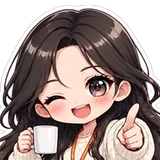
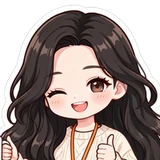
은빈을 동료들과 같은 몸 비율로
Claude-Session: https://claude.ai/code/session_013o6MwTRjv9wdDZ1RWn6mmU

diff --git a/sw.js b/sw.js
@@ -1,5 +1,5 @@
 // 자동 생성 파일: tools/build.py가 만든다. 직접 고치지 말고 tools/sw.template.js를 고칠 것
-const CACHE='humzzwi-2026.10.09-395606';
+const CACHE='humzzwi-2026.10.09-e61bfe';
 const ASSETS=["./", "index.html", "manifest.json", "icon-192.png", "icon-512.png", "apple-touch-icon.png", "fonts/GowunDodum-Regular.woff2", "fonts/Jua-Regular.woff2", "assets/a_bear.webp", "assets/a_daram.webp", "assets/a_daram_f.webp", "assets/a_eunbin.webp", "assets/a_fox.webp", "assets/a_hanmin.webp", "assets/a_hyunsu.webp", "assets/a_hz_walk.webp", "assets/a_hz_walk_b.webp", "assets/a_jaemin.webp", "assets/a_jiyoung.webp", "assets/a_lab.webp", "assets/a_sangho.webp", "assets/a_seohwi.webp", "assets/a_sumin.webp", "assets/badge.webp", "assets/c_ai.webp", "assets/c_ai_b.webp", "assets/c_blind.webp", "assets/c_blind_b.webp", "assets/c_blog.webp", "assets/c_blog_b.webp", "assets/c_cafe.webp", "assets/c_cafe_b.webp", "assets/c_coffee.webp", "assets/c_coffee_b.webp", "assets/c_content.webp", "assets/c_content_b.webp", "assets/c_cs.webp", "assets/c_cs_b.webp", "assets/c_date.webp", "assets/c_date_b.webp", "assets/c_daytrip.webp", "assets/c_daytrip_b.webp", "assets/c_english.webp", "assets/c_english_b.webp", "assets/c_erp.webp", "assets/c_erp_b.webp", "assets/c_ev_ceo.webp", "assets/c_ev_ceo_b.webp", "assets/c_ev_jobup.webp", "assets/c_ev_jobup_b.webp", "assets/c_ev_promo.webp", "assets/c_ev_promo_b.webp", "assets/c_excel.webp", "assets/c_excel_b.webp", "assets/c_filling.webp", "assets/c_filling_b.webp", "assets/c_formula.webp", "assets/c_formula_b.webp", "assets/c_friends.webp", "assets/c_friends_b.webp", "assets/c_global.webp", "assets/c_global_b.webp", "assets/c_gym.webp", "assets/c_gym_b.webp", "assets/c_half.webp", "assets/c_half_b.webp", "assets/c_ingredient.webp", "assets/c_ingredient_b.webp", "assets/c_jeju.webp", "assets/c_jeju_b.webp", "assets/c_keymsg.webp", "assets/c_keymsg_b.webp", "assets/c_leave.webp", "assets/c_leave_b.webp", "assets/c_lecture.webp", "assets/c_lecture_b.webp", "assets/c_license.webp", "assets/c_license_b.webp", "assets/c_logistics.webp", "assets/c_logistics_b.webp", "assets/c_mba.webp", "assets/c_mba_b.webp", "assets/c_md.webp", "assets/c_md_b.webp", "assets/c_minutes.webp", "assets/c_minutes_b.webp", "assets/c_orient.webp", "assets/c_orient_b.webp", "assets/c_overtime.webp", "assets/c_overtime_b.webp", "assets/c_package.webp", "assets/c_package_b.webp", "assets/c_pilates.webp", "assets/c_pilates_b.webp", "assets/c_pt.webp", "assets/c_pt_b.webp", "assets/c_research.webp", "assets/c_research_b.webp", "assets/c_review.webp", "assets/c_review_b.webp", "assets/c_run.webp", "assets/c_run_b.webp", "assets/c_schedule.webp", "assets/c_schedule_b.webp", "assets/c_selfdate.webp", "assets/c_selfdate_b.webp", "assets/c_settle.webp", "assets/c_settle_b.webp", "assets/c_shoot.webp", "assets/c_shoot_b.webp", "assets/c_shop_hb.webp", "assets/c_shop_hb_b.webp", "assets/c_shop_mall.webp", "assets/c_shop_mall_b.webp", "assets/c_shop_online.webp", "assets/c_shop_online_b.webp", "assets/c_snack.webp", "assets/c_snack_b.webp", "assets/c_store.webp", "assets/c_store_b.webp", "assets/c_tokyo.webp", "assets/c_tokyo_b.webp", "assets/c_trip.webp", "assets/c_trip_b.webp", "assets/c_walk.webp", "assets/c_walk_b.webp", "assets/d_coffeechat_f.webp", "assets/d_coffeechat_f_b.webp", "assets/d_coffeechat_m.webp", "assets/d_coffeechat_m_b.webp", "assets/d_coffeeget_f.webp", "assets/d_coffeeget_f_b.webp", "assets/d_coffeeget_m.webp", "assets/d_coffeeget_m_b.webp", "assets/d_coffeegive_f.webp", "assets/d_coffeegive_f_b.webp", "assets/d_coffeegive_m.webp", "assets/d_coffeegive_m_b.webp", "assets/d_coffeeshare_f.webp", "assets/d_coffeeshare_f_b.webp", "assets/d_coffeeshare_m.webp", "assets/d_coffeeshare_m_b.webp", "assets/d_confess_f.webp", "assets/d_confess_f_b.webp", "assets/d_confess_m.webp", "assets/d_confess_m_b.webp", "assets/d_picnic_f.webp", "assets/d_picnic_f_b.webp", "assets/d_picnic_m.webp", "assets/d_picnic_m_b.webp", "assets/d_ramen_f.webp", "assets/d_ramen_f_b.webp", "assets/d_ramen_m.webp", "assets/d_ramen_m_b.webp", "assets/ev_arrive.webp", "assets/ev_arrive_b.webp", "assets/ev_building.webp", "assets/ev_dinner.webp", "assets/ev_overload.webp", "assets/ev_pass.webp", "assets/ev_pass_b.webp", "assets/ev_present.webp", "assets/ev_reject.webp", "assets/ev_reject_b.webp", "assets/ev_studio.webp", "assets/ev_studio_b.webp", "assets/ev_subway.webp", "assets/ev_subway_b.webp", "assets/f_bear.webp", "assets/f_ceo.webp", "assets/f_daram.webp", "assets/f_daram_f.webp", "assets/f_eunbin.webp", "assets/f_fox.webp", "assets/f_hanmin.webp", "assets/f_hyunsu.webp", "assets/f_hz.webp", "assets/f_jaemin.webp", "assets/f_jiyoung.webp", "assets/f_lab.webp", "assets/f_sangho.webp", "assets/f_seohwi.webp", "assets/f_sumin.webp", "assets/hz.png", "assets/id_bad.webp", "assets/id_good.webp", "assets/id_ok.webp", "assets/lunch.webp", "assets/m_box.webp", "assets/m_box_b.webp", "assets/m_fit.webp", "assets/m_fit_b.webp", "assets/m_lab.webp", "assets/m_lab_b.webp", "assets/m_phone.webp", "assets/m_phone_b.webp", "assets/m_study.webp", "assets/m_study_b.webp", "assets/pl_boss.webp", "assets/pl_cafe.webp", "assets/pl_lab.webp", "assets/pl_mkt.webp", "assets/pl_ops.webp", "assets/pl_roof.webp", "assets/pl_sales.webp", "assets/pl_strat.webp", "assets/pl_studio.webp", "assets/pl_wh.webp", "assets/s_ceo.webp", "assets/s_coffee.webp", "assets/s_coffee_b.webp", "assets/s_dark.webp", "assets/s_dark_b.webp", "assets/s_desk.webp", "assets/s_desk_b.webp", "assets/s_eat.webp", "assets/s_eat_b.webp", "assets/s_jump.webp", "assets/s_jump_b.webp", "assets/s_sleep.webp", "assets/s_sleep_b.webp", "assets/s_walk.webp", "assets/s_walk_b.webp", "assets/sc_cafe.webp", "assets/sc_factory.webp", "assets/sc_gym.webp", "assets/sc_home.webp", "assets/sc_lab.webp", "assets/sc_meeting.webp", "assets/sc_office.webp", "assets/sc_package.webp", "assets/sc_park.webp", "assets/sc_popup.webp", "assets/sc_rain.webp", "assets/sc_store.webp", "assets/sc_studio.webp", "assets/sc_study.webp", "assets/v_short.webp", "assets/v_short_b.webp"];
 self.addEventListener('install',e=>{self.skipWaiting();e.waitUntil((async()=>{
   const c=await caches.open(CACHE),total=ASSETS.length,all=async()=>self.clients.matchAll({includeUncontrolled:true});

diff --git a/index.html b/index.html
@@ -7,7 +7,7 @@
 <meta name="apple-mobile-web-app-capable" content="yes"><meta name="mobile-web-app-capable" content="yes">
 <meta name="apple-mobile-web-app-status-bar-style" content="black-translucent"><meta name="apple-mobile-web-app-title" content="험쮜메이커">
 <meta name="theme-color" content="#2a1f33">
-<link rel="manifest" href="manifest.json?v=395606"><link rel="apple-touch-icon" sizes="180x180" href="apple-touch-icon.png?v=395606"><link rel="icon" type="image/png" sizes="192x192" href="icon-192.png?v=395606">
+<link rel="manifest" href="manifest.json?v=e61bfe"><link rel="apple-touch-icon" sizes="180x180" href="apple-touch-icon.png?v=e61bfe"><link rel="icon" type="image/png" sizes="192x192" href="icon-192.png?v=e61bfe">
 <style>
 /* 글꼴은 파일로 같이 들고 다닌다 (비행기 모드에서도 같은 모양) */
 @font-face{font-family:"Jua";src:url(fonts/Jua-Regular.woff2) format("woff2");font-display:swap}
@@ -2382,7 +2382,7 @@ function showGroup(ks){let g=$('#group');if(!g){g=document.createElement('div');
   // 모두 같은 배율의 그림이라 BODY_T(실제 키) 비율 그대로 세운다
   g.innerHTML=ks.map((k,i)=>`<figure style="animation-delay:${i*.08}s" data-t="${bodyT(k)}"><figcaption>${JOB_TAG[k]?JOB_TAG[k]+' · '+given(k):who(k).name}</figcaption><img src="${IMG(sprOf(k))}" alt="${esc(who(k).name)}"></figure>`).join('');g.hidden=false;placeGroup()}
 // 모든 동료 그림은 한 장의 라인업에서 같은 배율로 오려낸 것. BODY_T = 그림의 실제 픽셀 키 (얼굴 크기는 모두 같다)
-const BODY_T={"sangho":597,"hyunsu":533,"hanmin":581,"seohwi":536,"jiyoung":493,"daram":585,"eunbin":445,"sumin":538,"jaemin":593,"daram_f":486},T_MAX=597;
+const BODY_T={"sangho":597,"hyunsu":533,"hanmin":581,"seohwi":536,"jiyoung":493,"daram":585,"eunbin":515,"sumin":538,"jaemin":593,"daram_f":486},T_MAX=597;
 const sprOf=k=>imgOf(k);
 const bodyT=k=>BODY_T[imgOf(k).slice(2)]||T_MAX;
 function placeGroup(){const g=$('#group');if(!g||g.hidden)return;const d=$('#dialog'),ph=$('#phone').clientHeight,top=d.hidden?ph-200:d.offsetTop;
@@ -2910,7 +2910,7 @@ document.addEventListener('click',e=>{const b=e.target.closest('[data-mset]');if
    말주머니로 질문 → 답을 고르면 업무 성과 평가(정답일수록 매출·해외 진출·♥ 상승). 한 달에 3번. */
 const SEAT={sangho:[30,26],hyunsu:[70,26],hanmin:[18,48],seohwi:[50,48],jiyoung:[82,48],daram:[13,70],eunbin:[37,70],sumin:[63,70],jaemin:[87,70]};
 // 캐릭터마다 원본 그림 크기가 달라서, 얼굴 폭이 같아 보이도록 자르는 값 [너비%, 왼쪽%, 위%]
-const CROP={"sangho": [110.3, -3.0, 4.8], "hyunsu": [112.7, -1.2, 4.8], "hanmin": [119.4, -7.0, 4.8], "seohwi": [110.3, -1.5, 4.8], "jiyoung": [98.2, 2.2, 4.8], "daram": [107.3, -0.6, 4.8], "eunbin": [146.1, -20.9, 4.8], "sumin": [103.0, 3.4, 4.8], "jaemin": [115.8, -1.5, 4.8], "daram_f": [105.5, -1.5, 4.8]};
+const CROP={"sangho": [110.3, -3.0, 4.8], "hyunsu": [112.7, -1.2, 4.8], "hanmin": [119.4, -7.0, 4.8], "seohwi": [110.3, -1.5, 4.8], "jiyoung": [98.2, 2.2, 4.8], "daram": [107.3, -0.6, 4.8], "eunbin": [169.7, -35.2, 4.8], "sumin": [103.0, 3.4, 4.8], "jaemin": [115.8, -1.5, 4.8], "daram_f": [105.5, -1.5, 4.8]};
 const SEAT_ROW=[[11.5,'부장실'],[81,'인턴석 · 문 바로 옆']];
 const MY_SEAT=[60,96];
 // 사무실에선 이름 대신 직무로 표기
@@ -3517,7 +3517,7 @@ $('#btn-start').onclick=async()=>{
 setSound(AU.on);
 /* ================= 빌드 코드 · 오프라인(홈 화면 앱) =================
    tools/build.py가 BUILD를 매긴다. 홈 화면에 추가하면 처음 한 번 그림을 전부 받아 두고, 그 뒤로는 비행기 모드에서도 실행된다 */
-const BUILD='2026.10.09-395606';
+const BUILD='2026.10.09-e61bfe';
 $('#build-title').textContent=$('#build-menu').textContent=`빌드 ${BUILD}`;
 if('serviceWorker' in navigator&&/^https?:$/.test(location.protocol)){
   const bar=document.createElement('div');bar.className='sw-bar';bar.hidden=true;document.body.appendChild(bar);
